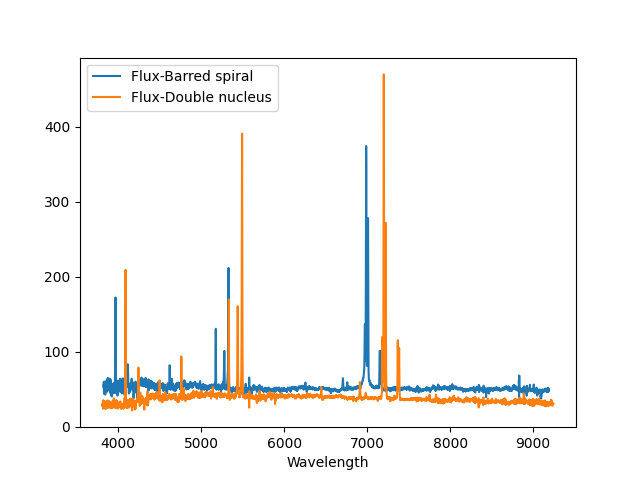
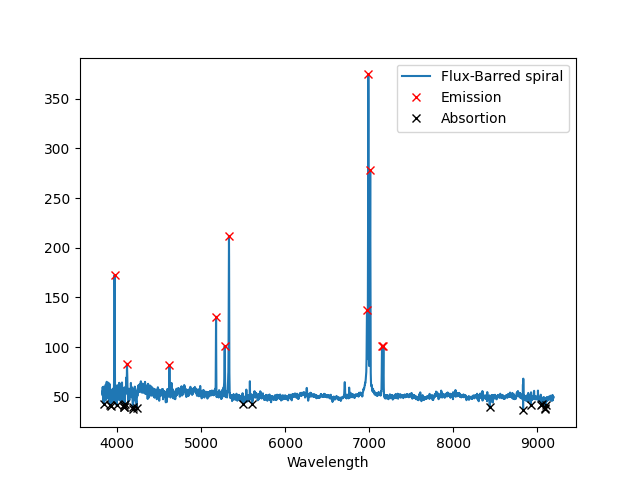
dismiss average

diff --git a/peakFinderSDSS.py b/peakFinderSDSS.py
@@ -225,14 +225,14 @@ data_float2 = data2.iloc[1:, :].astype(float)
 
 #x = data_float1.loc[:,0].to_numpy()
 #y = smooth.savitzky_golay(data_float1.loc[:,1].to_numpy(), 51, 3) 
-x, y, status = _math.average(data_float1.loc[:,0].to_numpy(), data_float1.loc[:,1].to_numpy(), 3)
-print(status)
+#x, y, status = _math.average(data_float1.loc[:,0].to_numpy(), data_float1.loc[:,1].to_numpy(), 3)
+#print(status)
 
 # Cut first data set
-"""abs_val_array = np.abs(data_float1.loc[:,0] - 6000)
+abs_val_array = np.abs(data_float1.loc[:,0] - 6000)
 x_pos_min = abs_val_array.idxmin()
 abs_val_array = np.abs(data_float1.loc[:,0] - 7000)
-x_pos_max = abs_val_array.idxmin()"""
+x_pos_max = abs_val_array.idxmin()
 #data_float1 = data1.iloc[x_pos_min:x_pos_max, :].astype(float)
 # Cut second data set
 #data_float2 = data2.iloc[x_pos_min:x_pos_max, :].astype(float)
@@ -247,7 +247,8 @@ if plot_flag:
     ax.set_xlabel(x_name)
     # Separate the name file from the path to set the plot title
     #head, tail = os.path.split(filename)
-    ax.plot(x, y, label='Flux-Barred spiral')
+    #ax.plot(data_float1.loc[:,0], data_float1.loc[:,1], label='Flux-Barred spiral')
+    ax.plot(data_float1.loc[:,0], data_float1.loc[:,1], label='Flux-Double nucleus')
     #ax.plot(data_float1.loc[:,0], data_float1.loc[:,2], label='Best Fit')
     #ax.plot(data_float1.loc[:,0], data_float1.loc[:,3], label='Sky Flux')
     
@@ -255,7 +256,7 @@ if plot_flag:
     
     ax.legend()
     # Set the path to save the plot and save it
-    plot_path = path1[:-4] + '_plot.png'
+    #plot_path = path1[:-4] + '_plot.png'
     #fig.savefig(plot_path)
     plt.pause(0.001)
 # Normalize the data to sonify
@@ -300,9 +301,9 @@ i = i + 1
 
 #peakfinder(data_float1.loc[:,0], data_float1.loc[:,1], 15, 1)
 print('emission')
-emission = peakfinder_emission(x, y, 5, 1)
+emission = peakfinder_emission(data_float1.loc[:,0], data_float1.loc[:,1], 5, 1)
 print('absortion')
-absortion = peakfinder_absorption(x, y, 3, 1)
+absortion = peakfinder_absorption(data_float1.loc[:,0], data_float1.loc[:,1], 3, 1)
 
 if not emission.empty:
   ax.plot(emission['x'], emission['y'], 'rx', label='Emission')
@@ -312,6 +313,9 @@ if not absortion.empty:
 #TODO: guardar los picos
 
 ax.legend()
+
+plot_path = path1[:-4] + '_plot.png'
+fig.savefig(plot_path)
 
 plt.pause(0.5)
 # Showing the above plot
